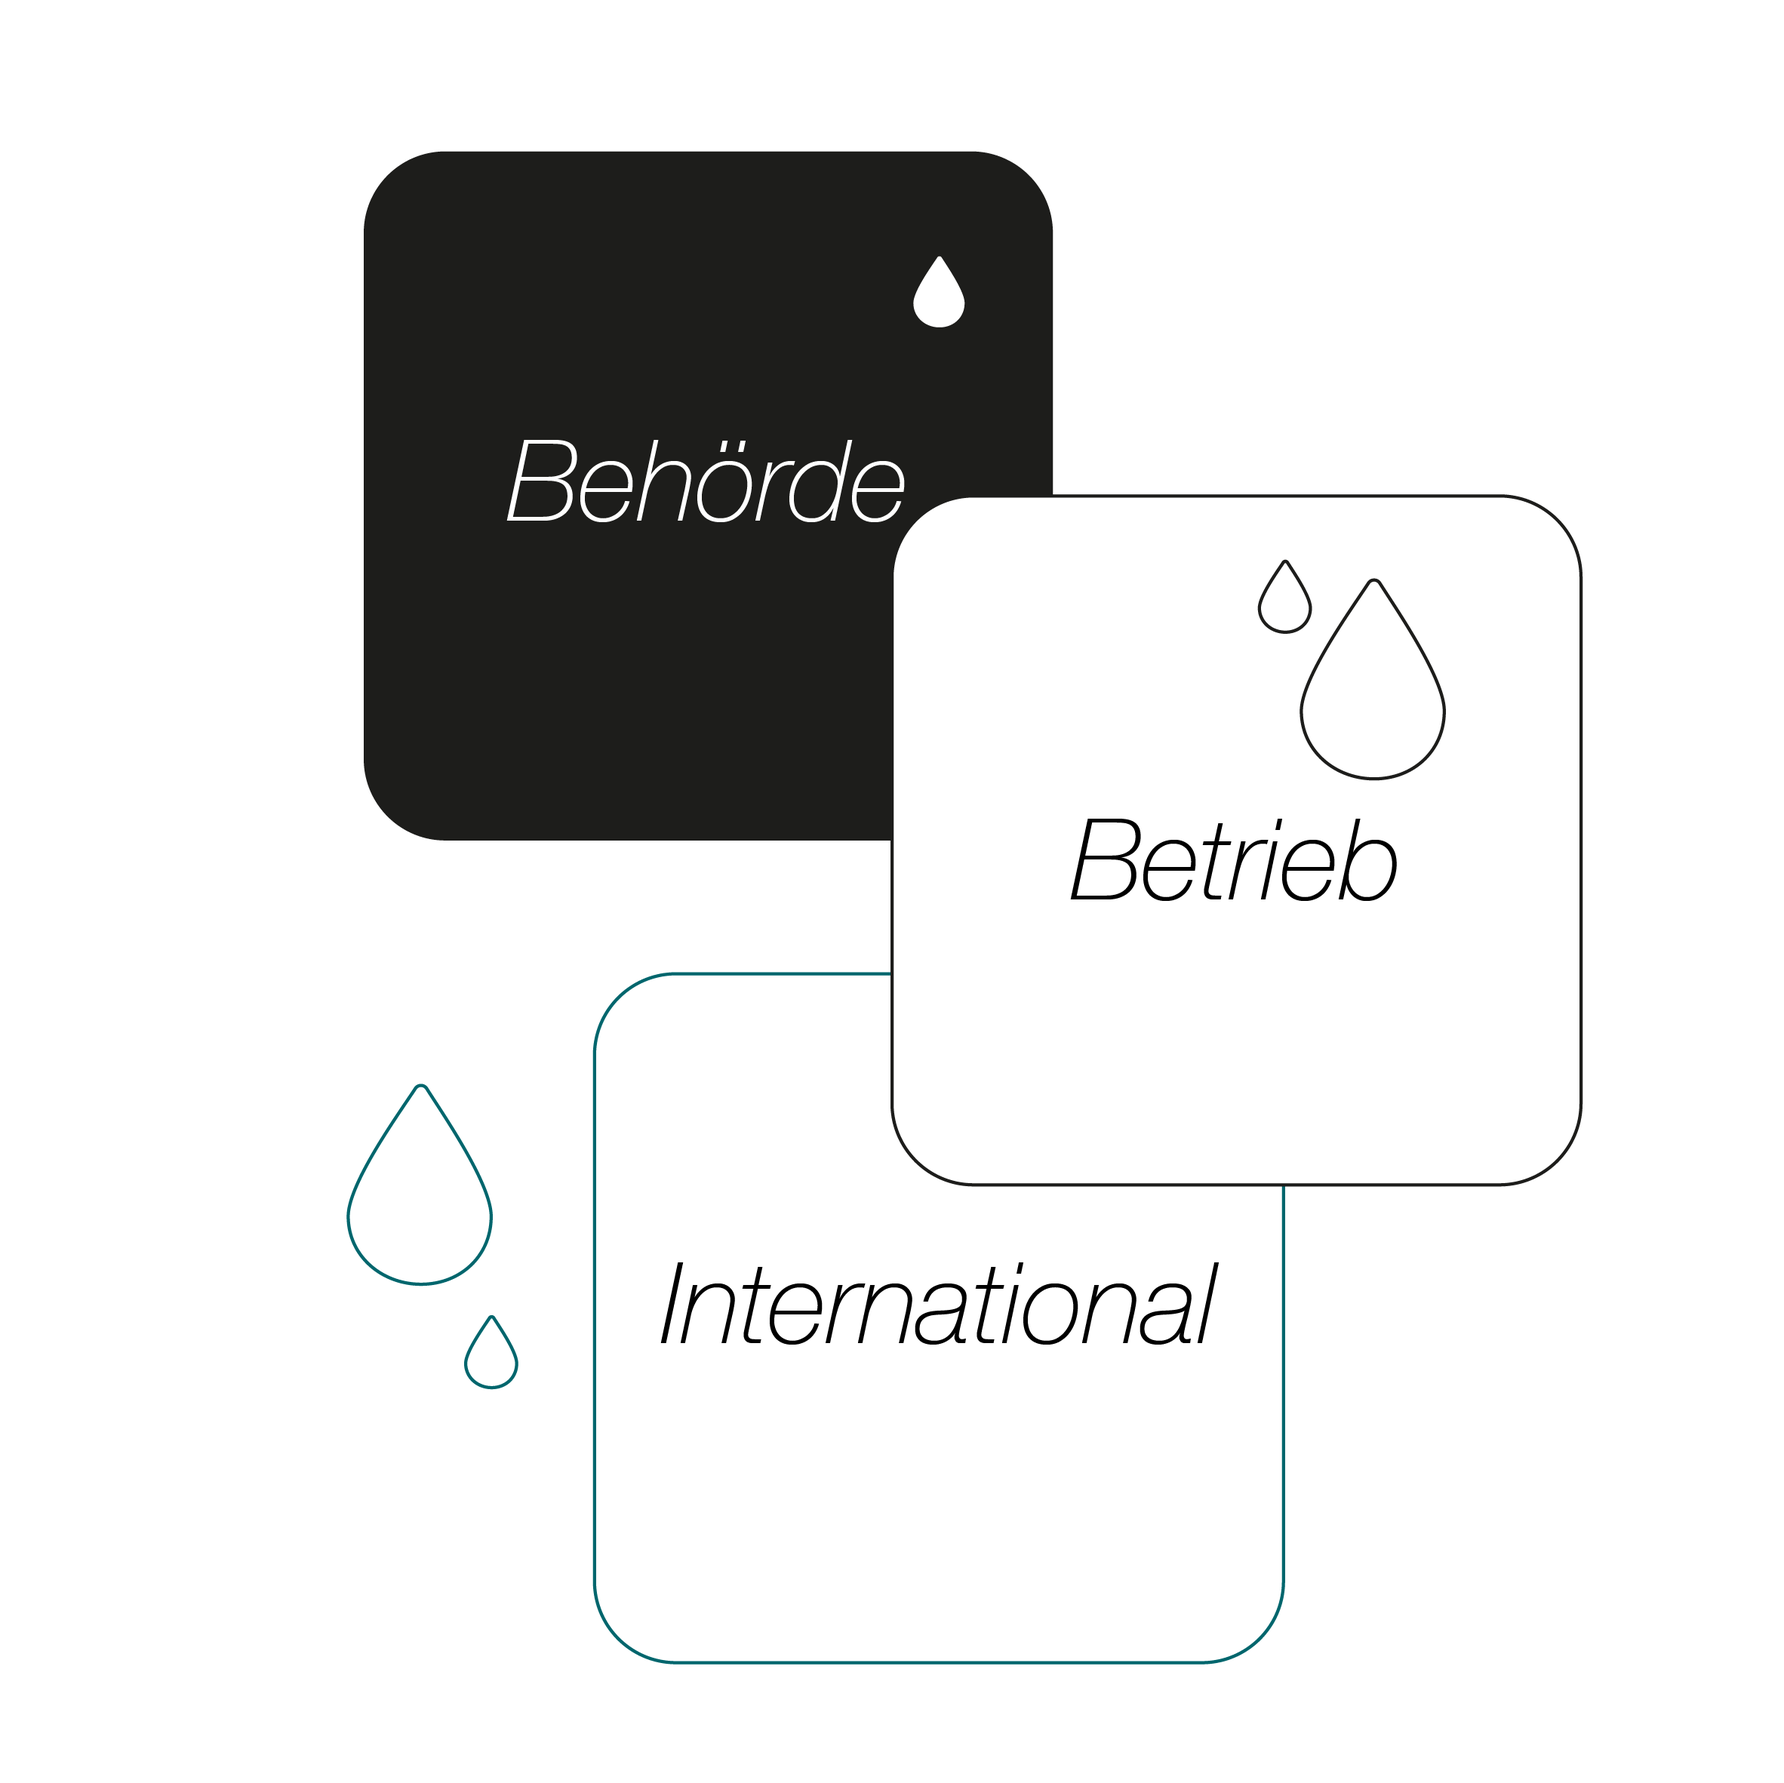
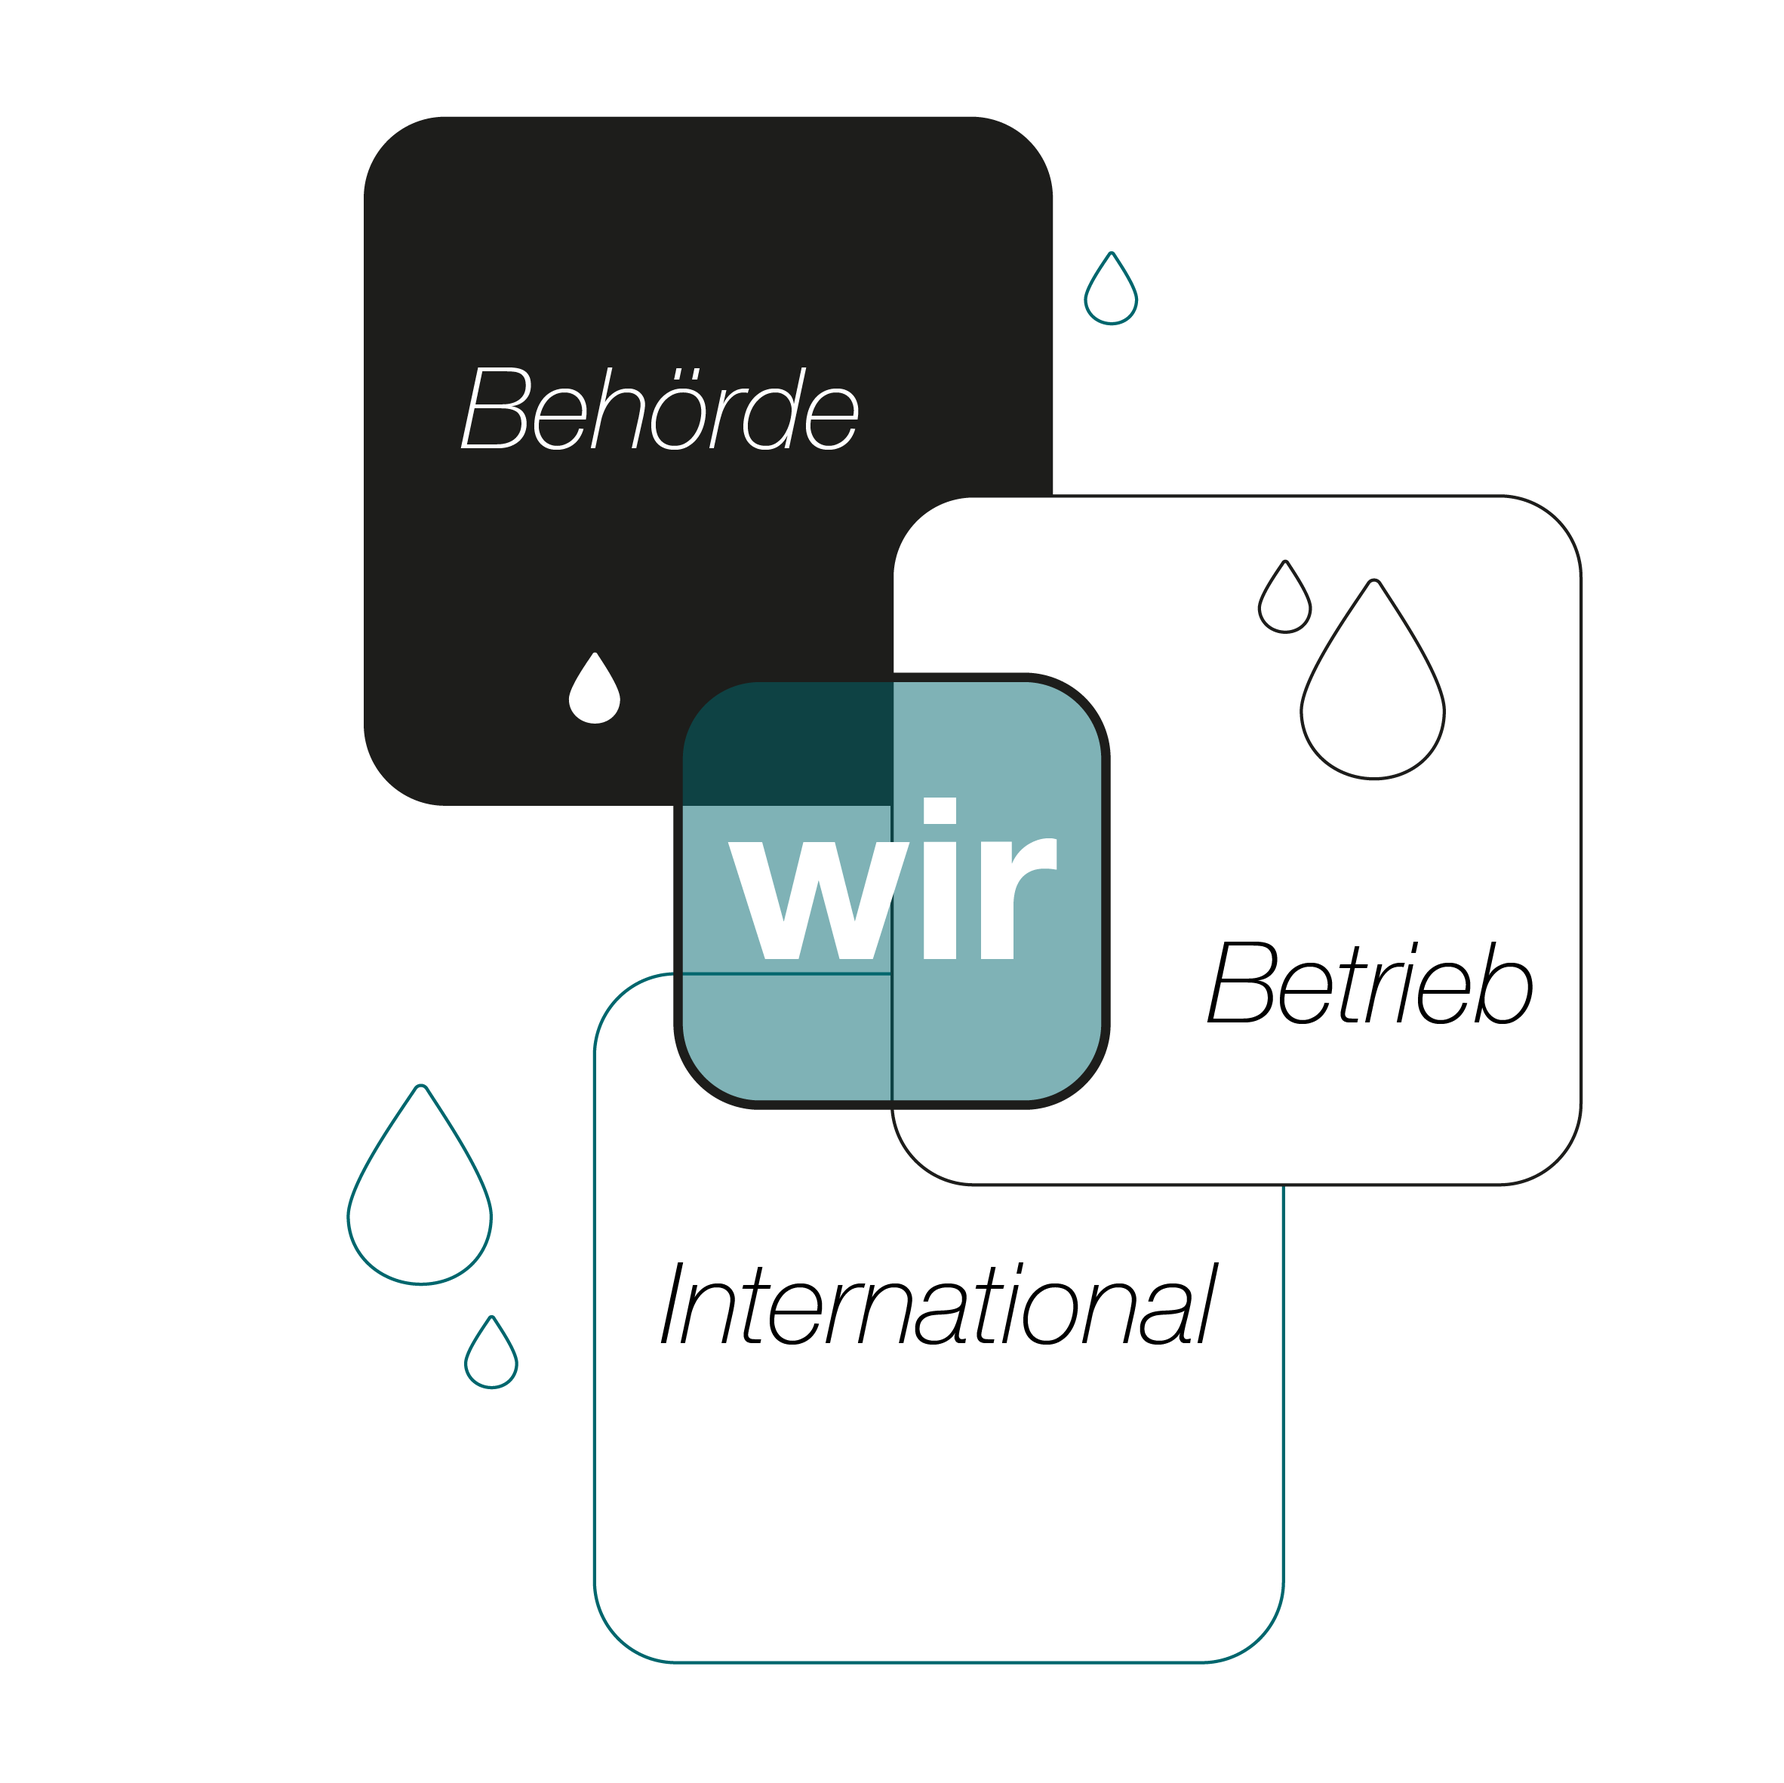
Hero-Diagramm als gestaltete Grafik, Sechser-Ring auf analoge Harmonie
- Hero: Inline-SVG durch die von der Auftraggeberin gestaltete PNG ersetzt
  (abgerundete Quadrate in der Formensprache der Bildmarke, mit gemeinsamer
  Mitte "wir"). Alternativtext traegt die Aussage und wird uebersetzt.
- Sechser-Ring: statt sechs Toenen im 60-Grad-Abstand jetzt eine analoge
  Reihe um die Markenfarbe - 139 Grad Gruen ueber 184 Grad Marke bis
  214 Grad Blau, mit gleichmaessiger Helligkeitsrampe. Ruhiger und sichtbar
  eine Familie; Grauwerte liegen dafuer enger beieinander.
- Kontraste geprueft: 9,2-10,4:1 auf den Lappen, Beschriftungen liegen
  weiterhin vollstaendig im eigenen Kreis.

Claude-Session: https://claude.ai/code/session_01CJuKZ9fYduzzZxYpfTG3HP

diff --git a/assets/css/style.css b/assets/css/style.css
@@ -21,19 +21,24 @@
   --venn-2:     #00666D;   /* the brand itself */
   --venn-3:     #702948;   /* hue 334° — rosé, darkest  */
 
-  /* Leistungs-Diagramm: sechs Felder als Ring. Drei Komplementärpaare —
-     sechs Farbtöne im Abstand von 60°, ausgehend von der Markenfarbe.
-     Anders als beim Drei-Mengen-Venn sind alle sechs auf DIESELBE
-     Leuchtdichte gebracht (Y 0,106, Grauwert 92): Die Felder sind
-     gleichrangig, keines soll schwerer wiegen. Die Zuordnung trägt
-     deshalb die Beschriftung in jedem Kreis, nicht die Farbe — im
-     Graustufendruck bleiben die Kreise über ihre Position lesbar. */
-  --venn6-1:    #00666D;   /* 184° — Grundwasser (die Markenfarbe) */
-  --venn6-2:    #534CBD;   /* 244° — Klima */
-  --venn6-3:    #A50B9B;   /* 304° — Analysen */
-  --venn6-4:    #B12319;   /*   4° — Projekte (die Komplementärfarbe) */
-  --venn6-5:    #5B5F1F;   /*  64° — Bildung */
-  --venn6-6:    #096B10;   /* 124° — International */
+  /* Leistungs-Diagramm: sechs Felder als Ring.
+     ANALOGE Harmonie um die Markenfarbe — sechs Farbtöne im Abstand von
+     15°, von 139° (Grün) über 184° (die Marke selbst) bis 214° (Blau).
+     Dazu eine gleichmäßige Helligkeitsrampe: Der Ring liest sich als
+     ein Verlauf, nicht als sechs Einzelfarben.
+
+     Bewusster Tausch gegenüber vorher: Das frühere Schema (sechs Töne
+     im 60°-Abstand) war maximal unterscheidbar, aber laut — Magenta und
+     Rot neben der Marke. Analoge Töne sind ruhig und gehören sichtbar
+     zusammen; der Preis ist, dass die Grauwerte enger beieinander
+     liegen (Abstand 8 statt 20+). Vertretbar, weil jeder Kreis seine
+     eigene Beschriftung trägt und über die Position erkennbar bleibt. */
+  --venn6-1:    #07872F;   /* 139° — Grundwasser, hellster */
+  --venn6-2:    #2B7A57;   /* 154° — Klima */
+  --venn6-3:    #207061;   /* 169° — Analysen */
+  --venn6-4:    #00666D;   /* 184° — Projekte, die Markenfarbe */
+  --venn6-5:    #035880;   /* 199° — Bildung */
+  --venn6-6:    #0B4898;   /* 214° — International, dunkelster */
   --ink:        #17211D;   /* headings and body */
   --muted:      #5A6A64;   /* secondary text — 5.4:1 on --paper */
   --paper:      #F7F9F8;
@@ -381,6 +386,7 @@ h1{ color:var(--ink); margin:0 0 1.5rem; }
   padding:0 0 1.4rem;
 }
 .venn svg{ display:block; width:100%; height:auto; overflow:visible; }
+.venn__img{ display:block; width:100%; height:auto; }
 
 .venn__c{ fill-opacity:.30; stroke-width:1.25; stroke-opacity:.5; }
 .venn__c--1{ fill:var(--venn-1); stroke:var(--venn-1); }

diff --git a/es/index.html b/es/index.html
@@ -147,24 +147,12 @@
     </div>
 
     <figure class="venn">
-      <svg viewBox="64 50 392 377" role="img" aria-labelledby="v1t v1d">
-        <title id="v1t" data-i18n="venn1.title">Autoridad · Operación · Cooperación internacional</title>
-        <desc id="v1d" data-i18n="venn1.desc">Diagrama de Venn con tres conjuntos — autoridad pública, operación municipal y cooperación internacional. La intersección común está resaltada como campo de trabajo.</desc>
-        <g class="venn__sets">
-          <circle class="venn__c venn__c--1" cx="204" cy="190" r="130"/>
-          <circle class="venn__c venn__c--2" cx="316" cy="190" r="130"/>
-          <circle class="venn__c venn__c--3" cx="260" cy="287" r="130"/>
-        </g>
-        <g class="venn__labels">
-          <text x="136" y="168" data-i18n="venn1.a">Autoridad</text>
-          <text x="384" y="168" data-i18n="venn1.b">Operación</text>
-          <text x="260" y="370" data-i18n="venn1.c">Internacional</text>
-        </g>
-        <g class="venn__core">
-          <text x="260" y="216" data-i18n="venn1.core1">NUESTRO</text>
-          <text x="260" y="242" data-i18n="venn1.core2">TRABAJO</text>
-        </g>
-      </svg>
+      <!-- Die von der Auftraggeberin gestaltete Fassung als Bilddatei.
+           Anders als das frühere Inline-SVG ist der Text hier fest im
+           Bild: Er wird nicht mitübersetzt und skaliert nicht mit der
+           Schriftgröße. Der Alternativtext trägt die Aussage deshalb
+           vollständig und wird übersetzt. -->
+      <img class="venn__img" src="../assets/img/venn-arbeit.png" width="899" height="1100" decoding="async" alt="Diagrama de Venn con tres conjuntos — autoridad pública, operación municipal y cooperación internacional. La intersección común está resaltada como campo de trabajo." data-i18n-attr="alt:venn1.desc">
       <figcaption data-i18n="venn1.cap">Práctica regulatoria, realidad operativa y trabajo internacional — trabajamos donde los tres se cruzan.</figcaption>
     </figure>
 

diff --git a/en/index.html b/en/index.html
@@ -147,24 +147,12 @@
     </div>
 
     <figure class="venn">
-      <svg viewBox="64 50 392 377" role="img" aria-labelledby="v1t v1d">
-        <title id="v1t" data-i18n="venn1.title">Authority · Operations · International cooperation</title>
-        <desc id="v1d" data-i18n="venn1.desc">Venn diagram of three sets — public authority, utility operations and international cooperation. The shared intersection is marked as the working field.</desc>
-        <g class="venn__sets">
-          <circle class="venn__c venn__c--1" cx="204" cy="190" r="130"/>
-          <circle class="venn__c venn__c--2" cx="316" cy="190" r="130"/>
-          <circle class="venn__c venn__c--3" cx="260" cy="287" r="130"/>
-        </g>
-        <g class="venn__labels">
-          <text x="136" y="168" data-i18n="venn1.a">Authority</text>
-          <text x="384" y="168" data-i18n="venn1.b">Utility</text>
-          <text x="260" y="370" data-i18n="venn1.c">International</text>
-        </g>
-        <g class="venn__core">
-          <text x="260" y="216" data-i18n="venn1.core1">OUR</text>
-          <text x="260" y="242" data-i18n="venn1.core2">WORK</text>
-        </g>
-      </svg>
+      <!-- Die von der Auftraggeberin gestaltete Fassung als Bilddatei.
+           Anders als das frühere Inline-SVG ist der Text hier fest im
+           Bild: Er wird nicht mitübersetzt und skaliert nicht mit der
+           Schriftgröße. Der Alternativtext trägt die Aussage deshalb
+           vollständig und wird übersetzt. -->
+      <img class="venn__img" src="../assets/img/venn-arbeit.png" width="899" height="1100" decoding="async" alt="Venn diagram of three sets — public authority, utility operations and international cooperation. The shared intersection is marked as the working field." data-i18n-attr="alt:venn1.desc">
       <figcaption data-i18n="venn1.cap">Permitting practice, operational reality and international project work — we work where all three overlap.</figcaption>
     </figure>
 

diff --git a/index.html b/index.html
@@ -147,24 +147,15 @@
     </div>
 
     <figure class="venn">
-      <svg viewBox="64 50 392 377" role="img" aria-labelledby="v1t v1d">
-        <title id="v1t" data-i18n="venn1.title">Behörde · Betrieb · International</title>
-        <desc id="v1d" data-i18n="venn1.desc">Venn-Diagramm mit drei Mengen; die gemeinsame Schnittmenge ist hervorgehoben.</desc>
-        <g class="venn__sets">
-          <circle class="venn__c venn__c--1" cx="204" cy="190" r="130"/>
-          <circle class="venn__c venn__c--2" cx="316" cy="190" r="130"/>
-          <circle class="venn__c venn__c--3" cx="260" cy="287" r="130"/>
-        </g>
-        <g class="venn__labels">
-          <text x="136" y="168" data-i18n="venn1.a">Behörde</text>
-          <text x="384" y="168" data-i18n="venn1.b">Betrieb</text>
-          <text x="260" y="370" data-i18n="venn1.c">International</text>
-        </g>
-        <g class="venn__core">
-          <text x="260" y="216" data-i18n="venn1.core1">UNSERE</text>
-          <text x="260" y="242" data-i18n="venn1.core2">ARBEIT</text>
-        </g>
-      </svg>
+      <!-- Die von der Auftraggeberin gestaltete Fassung als Bilddatei.
+           Anders als das frühere Inline-SVG ist der Text hier fest im
+           Bild: Er wird nicht mitübersetzt und skaliert nicht mit der
+           Schriftgröße. Der Alternativtext trägt die Aussage deshalb
+           vollständig und wird übersetzt. -->
+      <img class="venn__img" src="assets/img/venn-arbeit.png"
+           width="899" height="1100" decoding="async"
+           alt="Behörde, Betrieb und internationale Projektarbeit als drei überlappende Felder; in der gemeinsamen Mitte steht „Unsere Arbeit“."
+           data-i18n-attr="alt:venn1.desc">
       <figcaption data-i18n="venn1.cap">Genehmigungspraxis, Betriebsrealität und internationale Projektarbeit — wir arbeiten dort, wo sich alle drei überschneiden.</figcaption>
     </figure>
 

diff --git a/README.md b/README.md
@@ -434,39 +434,30 @@ Zwei Diagramme tragen je ein Argument:
    Der Ring behauptet deshalb gar nicht erst, alle Schnittmengen zu zeigen
    — er zeigt Nachbarschaft und eine gemeinsame Mitte.
 
-Die drei Kreise stehen in einem **Split-Komplementär-Schema** auf der
-Markenfarbe (`--venn-1` bis `--venn-3` in `style.css`). Die Markenfarbe
-behält den mittleren Kreis; die beiden anderen liegen beidseits ihrer
-Komplementärfarbe:
+Das **Hero-Diagramm** ist inzwischen eine von der Auftraggeberin
+gestaltete Bilddatei (`assets/img/venn-arbeit.png`) und kein Inline-SVG
+mehr. Drei abgerundete Quadrate in der Formensprache der Bildmarke, mit
+einer gemeinsamen Mitte, in der „wir" steht.
 
-| Token | Wert | Farbton | Ableitung |
-|---|---|---|---|
-| `--venn-1` | `#BF6F08` | 34° | Komplementär +30° — warm, hellster Kreis |
-| `--venn-2` | `#00666D` | 184° | die Markenfarbe selbst |
-| `--venn-3` | `#702948` | 334° | Komplementär −30° — rosé, dunkelster Kreis |
+**Was das kostet:** Der Text im Bild wird **nicht übersetzt** — auf `/en/`
+und `/es/` stehen die deutschen Beschriftungen. Der Alternativtext
+(`venn1.desc`) wird übersetzt und trägt die Aussage vollständig, das hilft
+aber nur Screenreadern und Suchmaschinen. Wer das beheben will, exportiert
+die Grafik dreimal; der Generator kann dann je Sprache die passende Datei
+einsetzen.
 
-Die Komplementärfarbe zu 184° liegt bei 4°. Genau dort säße ein Rot, das
-neben der Marke schreit; die beiden Kreise weichen deshalb um ±30° aus.
-Das ist die übliche Split-Komplementär-Konstruktion: maximaler Abstand zur
-Grundfarbe, ohne die Härte der reinen Komplementärfarbe.
+Neu erzeugen nach einer Änderung der Quelldatei:
 
-Wichtig: Die drei unterscheiden sich **nicht nur im Farbton, sondern auch in
-der Helligkeit** (Luminanz 0,225 / 0,106 / 0,055; Grauwerte 130 / 92 / 66).
-Nur so bleiben sie für farbenblinde Leser und im Schwarzweißdruck
-auseinanderzuhalten — der Farbton allein trägt die Aussage nie. Wer die
-Farben ändert, muss diesen Helligkeitsabstand erhalten: unter etwa 20
-Grauwert-Stufen fallen zwei Kreise im Druck zusammen. (Das frühere Set kam
-zwischen Kreis 2 und 3 nur auf 13 Stufen; das neue auf 26.)
+```bash
+cd assets/img && python3 -c "
+from PIL import Image
+im = Image.open('Unsere Arbeit@300x.png').convert('RGBA')
+im = im.crop(im.getbbox()); im.thumbnail((1200,1200), Image.LANCZOS)
+im.save('venn-arbeit.png', optimize=True)"
+```
 
-Überblendet wird **nicht**: Die Überlappungen dunkeln allein durch
-gestapelte Transparenz (30 %) nach. Eine Menge liest sich hell, zwei
-mittel, die gemeinsame Mitte am dunkelsten — das ist die Aussage.
-
-Kontrast der Beschriftungen auf den gerenderten Flächen: 9,5–11,5:1 für die
-Lappen, 3,6:1 für die Mitte. Der Mittel-Text steht deshalb fett auf 20 px
-und erfüllt damit die Schwelle für große Schrift (3:1). Wird er kleiner
-oder dünner gesetzt, reicht Dunkelblau dort nicht mehr — dann `--ink`
-verwenden (4,9:1).
+Die Farbtoken `--venn-1` bis `--venn-3` gelten nur noch für den Fall, dass
+wieder ein SVG-Diagramm eingesetzt wird.
 
 ### Der Sechser-Ring (Leistungen)
 
@@ -476,27 +467,30 @@ Uhrzeigersinn in der Reihenfolge der sechs Karten. Aus `148 − 88 = 60`
 ergibt sich das freie Mittelfeld; dort steht `venn2.core1` / `core2`.
 
 Eigene Farbtoken (`--venn6-1` bis `--venn6-6`), **nicht** die des
-Hero-Diagramms — drei Komplementärpaare, sechs Farbtöne im 60°-Abstand ab
-der Markenfarbe:
+Hero-Diagramms. Es ist eine **analoge Harmonie** um die Markenfarbe:
+sechs Farbtöne im Abstand von 15°, von Grün über die Marke bis Blau,
+dazu eine gleichmäßige Helligkeitsrampe. Der Ring liest sich dadurch als
+ein Verlauf und nicht als sechs Einzelfarben.
 
 | Token | Wert | Farbton | Feld |
 |---|---|---|---|
-| `--venn6-1` | `#00666D` | 184° | Grundwasser — die Markenfarbe |
-| `--venn6-2` | `#534CBD` | 244° | Klima |
-| `--venn6-3` | `#A50B9B` | 304° | Analysen |
-| `--venn6-4` | `#B12319` | 4° | Projekte — die Komplementärfarbe |
-| `--venn6-5` | `#5B5F1F` | 64° | Bildung |
-| `--venn6-6` | `#096B10` | 124° | International |
+| `--venn6-1` | `#07872F` | 139° | Grundwasser — hellster |
+| `--venn6-2` | `#2B7A57` | 154° | Klima |
+| `--venn6-3` | `#207061` | 169° | Analysen |
+| `--venn6-4` | `#00666D` | 184° | Projekte — **die Markenfarbe** |
+| `--venn6-5` | `#035880` | 199° | Bildung |
+| `--venn6-6` | `#0B4898` | 214° | International — dunkelster |
 
-**Anders als beim Hero-Diagramm sind alle sechs gleich hell** (Y 0,106,
-Grauwert 92). Das ist Absicht: Die sechs Felder sind gleichrangig, keines
-soll optisch schwerer wiegen. Der Preis ist, dass die Kreise im
-Graustufendruck farblich zusammenfallen — tragbar, weil jeder Kreis seine
-eigene Beschriftung enthält und über seine **Position** identifizierbar
-bleibt. Beim Drei-Mengen-Venn ist das anders: Dort muss man Regionen
-zurückverfolgen, deshalb dort die gestufte Helligkeit.
+**Bewusster Tausch:** Vorher standen hier sechs Töne im 60°-Abstand (drei
+Komplementärpaare). Die waren maximal unterscheidbar, aber laut — Magenta
+und Rot direkt neben der Marke. Analoge Töne gehören sichtbar zusammen.
+Der Preis: Die Grauwerte liegen enger beieinander (Abstand 8 statt 20+),
+im Schwarzweißdruck sind die Nachbarn also kaum zu trennen. Vertretbar,
+weil jeder Kreis seine eigene Beschriftung trägt und über seine
+**Position** erkennbar bleibt — anders als beim Drei-Mengen-Venn, wo man
+Regionen zurückverfolgen muss.
 
-Kontraste mit `--ink`: 9,5–10,4:1 auf den einzelnen Lappen, 6,3–7,0:1 in
+Kontraste mit `--ink`: 9,2–10,4:1 auf den einzelnen Lappen, 6,4–7,8:1 in
 den Überlappungen der Nachbarn.
 
 Die Beschriftungen sind **einzelne Wörter** (`venn2.a` bis `venn2.f`) und
